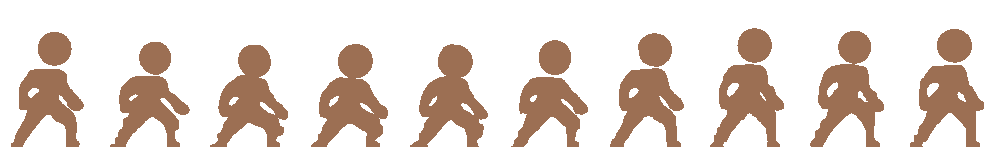
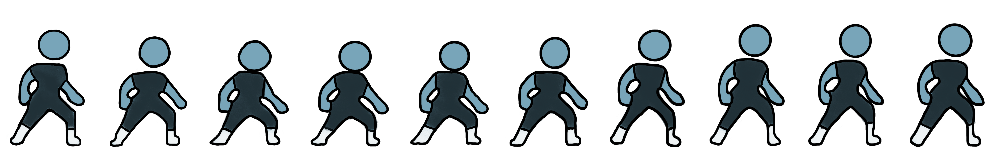
Continue improving the art and feel (#76)

diff --git a/packages/frontend/src/lib/game/player/Player.ts b/packages/frontend/src/lib/game/player/Player.ts
@@ -60,8 +60,6 @@ export class Player extends Phaser.GameObjects.Sprite {
     this.setActive(false);
     this.setVisible(false);
 
-    this.setTint(0xeadbcb);
-
     this.initializePhysics();
     this.setAnimations();
   }
@@ -95,8 +93,8 @@ export class Player extends Phaser.GameObjects.Sprite {
 
     this.anims.create({
       key: "dash",
-      frames: this.anims.generateFrameNumbers("dash", { start: 0, end: 6 }),
-      frameRate: 3,
+      frames: this.anims.generateFrameNumbers("dash", { start: 0, end: 2 }),
+      frameRate: 4,
       repeat: -1,
     });
 
@@ -136,12 +134,6 @@ export class Player extends Phaser.GameObjects.Sprite {
       frameRate: 4,
       repeat: -1,
     });
-  }
-
-  public clearTint() {
-    this.setTint(0xeadbcb);
-
-    return this;
   }
 
   public spawnPlayer(x: number, y: number) {

diff --git a/packages/frontend/src/lib/game/manager/AssetManager.ts b/packages/frontend/src/lib/game/manager/AssetManager.ts
@@ -101,8 +101,6 @@ export class AssetManager {
   }
 
   private loadEnvironment() {
-    // this.scene.load.image("tower", "visual/environment/tower.png");
-    // this.scene.load.image("tree", "visual/environment/tree.jpg");
     this.scene.load.image("platform", "visual/environment/platform.png");
     this.scene.load.image(
       "passable_platform",
@@ -126,8 +124,8 @@ export class AssetManager {
       frameHeight: 147,
     });
 
-    this.scene.load.spritesheet("dash", "visual/player/dash-98x147-0.png", {
-      frameWidth: 98,
+    this.scene.load.spritesheet("dash", "visual/player/dash-100x147-0.png", {
+      frameWidth: 100,
       frameHeight: 147,
     });
     this.scene.load.spritesheet("climb", "visual/player/climb-75x147-55.png", {

diff --git a/packages/backend/src/helperServices/imageManipulation/imageManipulation.service.ts b/packages/backend/src/helperServices/imageManipulation/imageManipulation.service.ts
@@ -5,11 +5,11 @@ import * as _ from "lodash";
 
 const ORIGINAL_WIDTH = 192;
 
-const INPUT_NAME = "wall_hang";
+const INPUT_NAME = "wall_slide";
 
-const LEFT = 45;
-const TOP = 25;
-const BOTTOM = 20;
+const LEFT = 40;
+const TOP = 40;
+const BOTTOM = 5;
 const WIDTH = 83;
 
 const FRAME_NUMBER = 2;

diff --git a/packages/frontend/src/lib/components/stats/Bars.module.scss b/packages/frontend/src/lib/components/stats/Bars.module.scss
@@ -8,13 +8,15 @@
   position: absolute;
   top: 0;
   left: 0;
-  padding: 5px;
 }
 
 .allBars {
   display: flex;
   flex-direction: column;
-  gap: 5px;
+  padding: 10px;
+  background: $white;
+  border: 1px solid $black;
+  border-radius: 0 0 5px 0;
 }
 
 .barContainer {
